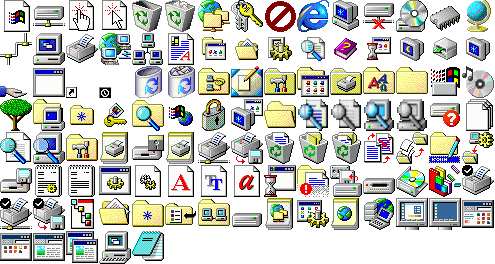
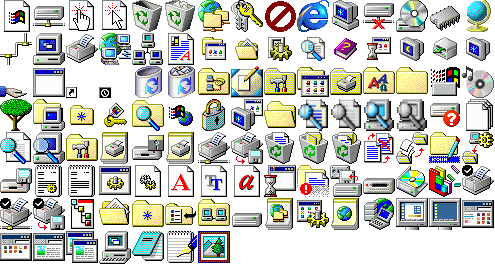
Add Imaging program

Changed region(s): [[0.3333, 0.8485, 0.4848, 1.0]]

diff --git a/style/style.css b/style/style.css
@@ -1,1 +1,1 @@
-.ie main{display:flex;flex-direction:column}.ie main .address-bar{display:flex;gap:4px;padding:4px}.ie main .address-bar input{flex:1}.ie main iframe{flex:1}.notepad textarea{height:100%;min-height:480px;min-width:640px;overflow:scroll;resize:none;width:100%}.explorer{height:400px;width:500px}.explorer main{align-content:flex-start;align-items:flex-start;background-color:#fff;display:flex;flex-wrap:wrap}.explorer main .shortcut:not(:focus)>p{color:#000}.word-pad main{background-color:#fff}@font-face{font-family:"win98";src:url("../assets/win98-font.ttf") format("truetype")}body{align-content:flex-start;background-color:teal;display:flex;flex-flow:column wrap;font-family:win98,sans-serif;height:100vh;padding-bottom:28px}.shortcut{border:1px dotted rgba(0, 0, 0, 0);margin:5px;min-height:64px;text-align:center;width:64px;z-index:0}.shortcut .icon{display:inline-block;margin:6px}.shortcut>p{color:#fff;overflow:hidden;text-align:center;text-overflow:ellipsis;white-space:nowrap}.shortcut.selected,.shortcut:focus{background-color:var(--win-selected-bg);border-color:#ff8080;left:0;position:relative;top:0;z-index:1}.shortcut.selected>p,.shortcut:focus>p{overflow:visible;white-space:normal}@font-face{font-family:"win98";src:url("../assets/win98-font.ttf") format("truetype")}.icon{background:url("../assets/icons.png") no-repeat 7.1428571429% 28.5714285714%;display:inline-block;max-height:32px;max-width:32px;min-height:32px;min-width:32px}.icon.medium{background-size:371.25px 198px;max-height:24px;max-width:24px;min-height:24px;min-width:24px}.icon.small{background-size:247.5px 132px;max-height:16px;max-width:16px;min-height:16px;min-width:16px}.icon.unknown{background-position:0% 0%}.icon.driver{background-position:7.1428571429% 0%}.icon.trash-bin{background-position:28.5714285714% 0%}.icon.trash-bin-full{background-position:35.7142857143% 0%}.icon.disabled{background-position:57.1428571429% 0%}.icon.ie{background-position:64.2857142857% 0%}.icon.hardver{background-position:92.8571428571% 0%}.icon.world{background-position:100% 0%}.icon.printer{background-position:14.2857142857% 14.2857142857%}.icon.rich-text{background-position:35.7142857143% 14.2857142857%}.icon.settings{background-position:57.1428571429% 14.2857142857%}.icon.help{background-position:64.2857142857% 14.2857142857%}.icon.run{background-position:71.4285714286% 14.2857142857%}.icon.monitor{background-position:100% 14.2857142857%}.icon.trash-bin-new{background-position:28.5714285714% 28.5714285714%}.icon.trash-bin-new-full{background-position:35.7142857143% 28.5714285714%}.icon.desktop{background-position:50% 28.5714285714%}.icon.programs{background-position:64.2857142857% 28.5714285714%}.icon.folder{background-position:85.7142857143% 28.5714285714%}.icon.tree{background-position:0% 42.8571428571%}.icon.log-off{background-position:21.4285714286% 42.8571428571%}.icon.search-folder{background-position:28.5714285714% 42.8571428571%}.icon.files{background-position:100% 42.8571428571%}.icon.search-file{background-position:0% 57.1428571429%}.icon.seacrh-computer{background-position:7.1428571429% 57.1428571429%}.icon.control-panel{background-position:14.2857142857% 57.1428571429%}.icon.file-script{background-position:7.1428571429% 71.4285714286%}.icon.file-text{background-position:14.2857142857% 71.4285714286%}.icon.documents{background-position:21.4285714286% 85.7142857143%}.icon.computer{background-position:21.4285714286% 100%}.icon.notepad{background-position:28.5714285714% 100%}@font-face{font-family:"win98";src:url("../assets/win98-font.ttf") format("truetype")}input[type=week],input[type=time],input[type=submit],input[type=reset],input[type=range],input[type=radio],input[type=month],input[type=file],input[type=datetime],input[type=date],input[type=color],input[type=checkbox],input[type=button]{cursor:url("../assets/cursors/default.svg"),default}:root{--win-default-bg: #c0c0c0;--win-default-bg-dark: #808080;--win-selected-bg: #000080;--win-selected-color: #fff}*{border:none;border-radius:0;box-sizing:border-box;margin:0;outline:none;padding:0;vertical-align:middle}*::-webkit-scrollbar{background-color:#ddd;height:16px;width:16px}*::-webkit-scrollbar-button{border-color:#fff var(--win-default-bg-dark) var(--win-default-bg-dark) #fff;border-style:solid;border-width:2px}*::-webkit-scrollbar-button:vertical:start{background:var(--win-default-bg) url("../assets/button-arrows.png")}*::-webkit-scrollbar-button:vertical:end{background:var(--win-default-bg) url("../assets/button-arrows.png") -12px}*::-webkit-scrollbar-button:horizontal:start{background:var(--win-default-bg) url("../assets/button-arrows.png") -36px}*::-webkit-scrollbar-button:horizontal:end{background:var(--win-default-bg) url("../assets/button-arrows.png") -24px}*::-webkit-scrollbar-button:active{border-color:var(--win-default-bg-dark) #fff #fff var(--win-default-bg-dark);border-style:solid;border-width:2px}*::-webkit-scrollbar-corner{background-color:var(--win-default-bg)}*::-webkit-scrollbar-thumb{border-color:#fff var(--win-default-bg-dark) var(--win-default-bg-dark) #fff;border-style:solid;border-width:2px;background-color:var(--win-default-bg)}html{cursor:url("../assets/cursors/default.svg"),default;font-size:12px}button{border-color:#fff var(--win-default-bg-dark) var(--win-default-bg-dark) #fff;border-style:solid;border-width:2px;background-color:var(--win-default-bg);font-size:1rem;overflow:hidden;padding:2px;position:relative;text-align:left;text-overflow:ellipsis;white-space:nowrap}button:active{border-color:var(--win-default-bg-dark) #fff #fff var(--win-default-bg-dark);border-style:solid;border-width:2px}button:focus:after{border:1px dotted #000;bottom:1px;content:" ";display:block;left:1px;position:absolute;right:1px;top:1px}input{cursor:url("../assets/cursors/text.svg"),text}input[type=image]{cursor:url("../assets/cursors/pointer.svg"),pointer}textarea{cursor:url("../assets/cursors/text.svg"),text}@font-face{font-family:"win98";src:url("../assets/win98-font.ttf") format("truetype")}#dateAndTime{border-color:var(--win-default-bg-dark) #fff #fff var(--win-default-bg-dark);border-style:solid;border-width:2px;border-width:1px;height:22px;padding:3px 6px 0 6px}#startButton{background:url("../assets/start.png") no-repeat 3px 3px var(--win-default-bg);height:22px;width:54px}#startMenu{border-color:#fff var(--win-default-bg-dark) var(--win-default-bg-dark) #fff;border-style:solid;border-width:2px;background:var(--win-selected-bg) url("../assets/startside.png") no-repeat 0 100%;border-top:2px solid #fff;bottom:calc(100% + 2px);display:none;flex-direction:column;justify-content:flex-end;left:2px;min-height:109px;padding-left:21px;position:absolute;z-index:1000}#startMenu.open{display:flex}#startMenu .menuitem{align-items:center;background-color:var(--win-default-bg);border:none;color:#000;display:flex;list-style:none;padding:4px 6px;position:relative;text-align:left;width:175px}#startMenu .menuitem:after{content:none}#startMenu .menuitem:hover{background-color:var(--win-selected-bg);color:var(--win-selected-color)}#startMenu .menuitem:hover>ul{display:block}#startMenu .menuitem>.icon{margin-right:2px}#startMenu .menuitem label{align-items:center;display:flex;flex:1;justify-content:space-between}#startMenu .menuitem label:nth-last-child(2):after{border-bottom:4px solid rgba(0, 0, 0, 0);border-left:4px solid;border-top:4px solid rgba(0, 0, 0, 0);content:" ";display:block;height:0;width:0}#startMenu .menuitem ul{border-color:#fff var(--win-default-bg-dark) var(--win-default-bg-dark) #fff;border-style:solid;border-width:2px;display:none;position:absolute;right:-177px;top:-2px}#startMenu .menuitem ul .icon{background-size:247.5px 132px;max-height:16px;max-width:16px;min-height:16px;min-width:16px}#startMenu .menu-separator{background:linear-gradient(var(--win-default-bg-dark) 1px, #fff 1px);border-width:4px 2px;border-color:var(--win-default-bg);border-style:solid;height:10px;list-style:none}#taskbar{background-color:var(--win-default-bg);border-top:2px solid #fff;bottom:0;display:flex;height:28px;justify-content:flex-start;left:0;padding:2px;position:fixed;right:0}#taskbar .separator{border-left:1px solid var(--win-default-bg-dark);border-right:1px solid #fff;margin:0 2px}#taskbarButtons{display:flex;gap:3px;flex:1}#taskbarButtons>button{padding:1px;width:160px}#taskbarButtons>button.active{border-color:var(--win-default-bg-dark) #fff #fff var(--win-default-bg-dark);border-style:solid;border-width:2px;background-color:#dedede}#taskbarButtons>button.active label{font-weight:bold}@font-face{font-family:"win98";src:url("../assets/win98-font.ttf") format("truetype")}dialog{border-color:#fff var(--win-default-bg-dark) var(--win-default-bg-dark) #fff;border-style:solid;border-width:2px;background-color:var(--win-default-bg);display:none;flex-direction:column;min-height:200px;min-width:200px;padding:2px;position:fixed}dialog.full{bottom:28px !important;height:auto !important;left:0 !important;right:0 !important;top:0 !important;width:auto !important}dialog.full header button.maximize{background-image:url(../assets/restore.svg)}dialog.active header{background-color:var(--win-selected-bg)}dialog[open]{display:flex}dialog header{align-items:center;background-color:var(--win-default-bg-dark);color:var(--win-selected-color);display:flex;margin-bottom:2px;max-height:20px;min-height:20px;overflow:hidden;padding:1px}dialog header label{flex:1;font-weight:bold;letter-spacing:.075em}dialog header button{height:14px;width:16px}dialog header button:focus:after{content:none}dialog header button.maximize{background-image:url(../assets/maximize.svg)}dialog header button.minimize{background-image:url(../assets/minimize.svg)}dialog header button.close{background-image:url(../assets/close.svg);margin-left:2px}dialog header .icon{background-size:247.5px 132px;max-height:16px;max-width:16px;min-height:16px;min-width:16px}dialog main{border-color:var(--win-default-bg-dark) #fff #fff var(--win-default-bg-dark);border-style:solid;border-width:2px;height:100%;margin-top:3px;min-height:190px;min-width:190px;overflow:auto}dialog menu{display:flex;gap:1px;list-style:none}dialog menu>li{border:1px solid rgba(0, 0, 0, 0);padding:2px 6px}dialog menu>li:hover{border-color:#fff var(--win-default-bg-dark) var(--win-default-bg-dark) #fff;border-style:solid;border-width:1px}dialog menu>li:active{border-color:var(--win-default-bg-dark) #fff #fff var(--win-default-bg-dark);border-style:solid;border-width:1px}#devNote{bottom:35px;color:rgba(0,0,0,.5);font-weight:bold;position:absolute;right:5px;text-align:right}dialog .resizer{position:absolute}dialog .resizer.bottom{bottom:0;cursor:n-resize;height:4px;left:0;width:100%}dialog .resizer.left{cursor:e-resize;height:100%;left:0;top:0;width:4px}dialog .resizer.right{cursor:e-resize;height:100%;right:0;top:0;width:4px}dialog .resizer.top{cursor:n-resize;height:4px;left:0;top:0;width:100%}/*# sourceMappingURL=style.css.map */
+.imaging main{text-align:center}.ie main{display:flex;flex-direction:column}.ie main .address-bar{display:flex;gap:4px;padding:4px}.ie main .address-bar input{flex:1}.ie main iframe{flex:1}.notepad textarea{height:100%;min-height:480px;min-width:640px;overflow:scroll;resize:none;width:100%}.explorer{height:400px;width:500px}.explorer main{align-content:flex-start;align-items:flex-start;background-color:#fff;display:flex;flex-wrap:wrap}.explorer main .shortcut:not(:focus)>p{color:#000}.word-pad main{background-color:#fff}@font-face{font-family:"win98";src:url("../assets/win98-font.ttf") format("truetype")}body{align-content:flex-start;background-color:teal;display:flex;flex-flow:column wrap;font-family:win98,sans-serif;height:100vh;padding-bottom:28px}.shortcut{border:1px dotted rgba(0, 0, 0, 0);margin:5px;min-height:64px;text-align:center;width:64px;z-index:0}.shortcut .icon{display:inline-block;margin:6px}.shortcut>p{color:#fff;overflow:hidden;text-align:center;text-overflow:ellipsis;white-space:nowrap}.shortcut.selected,.shortcut:focus{background-color:var(--win-selected-bg);border-color:#ff8080;left:0;position:relative;top:0;z-index:1}.shortcut.selected>p,.shortcut:focus>p{overflow:visible;white-space:normal}@font-face{font-family:"win98";src:url("../assets/win98-font.ttf") format("truetype")}.icon{background:url("../assets/icons.png") no-repeat 7.1428571429% 28.5714285714%;display:inline-block;max-height:32px;max-width:32px;min-height:32px;min-width:32px}.icon.medium{background-size:371.25px 198px;max-height:24px;max-width:24px;min-height:24px;min-width:24px}.icon.small{background-size:247.5px 132px;max-height:16px;max-width:16px;min-height:16px;min-width:16px}.icon.unknown{background-position:0% 0%}.icon.driver{background-position:7.1428571429% 0%}.icon.trash-bin{background-position:28.5714285714% 0%}.icon.trash-bin-full{background-position:35.7142857143% 0%}.icon.disabled{background-position:57.1428571429% 0%}.icon.ie{background-position:64.2857142857% 0%}.icon.hardver{background-position:92.8571428571% 0%}.icon.world{background-position:100% 0%}.icon.printer{background-position:14.2857142857% 14.2857142857%}.icon.rich-text{background-position:35.7142857143% 14.2857142857%}.icon.settings{background-position:57.1428571429% 14.2857142857%}.icon.help{background-position:64.2857142857% 14.2857142857%}.icon.run{background-position:71.4285714286% 14.2857142857%}.icon.monitor{background-position:100% 14.2857142857%}.icon.trash-bin-new{background-position:28.5714285714% 28.5714285714%}.icon.trash-bin-new-full{background-position:35.7142857143% 28.5714285714%}.icon.desktop{background-position:50% 28.5714285714%}.icon.programs{background-position:64.2857142857% 28.5714285714%}.icon.folder{background-position:85.7142857143% 28.5714285714%}.icon.tree{background-position:0% 42.8571428571%}.icon.log-off{background-position:21.4285714286% 42.8571428571%}.icon.search-folder{background-position:28.5714285714% 42.8571428571%}.icon.files{background-position:100% 42.8571428571%}.icon.search-file{background-position:0% 57.1428571429%}.icon.seacrh-computer{background-position:7.1428571429% 57.1428571429%}.icon.control-panel{background-position:14.2857142857% 57.1428571429%}.icon.file-script{background-position:7.1428571429% 71.4285714286%}.icon.file-text{background-position:14.2857142857% 71.4285714286%}.icon.documents{background-position:21.4285714286% 85.7142857143%}.icon.computer{background-position:21.4285714286% 100%}.icon.notepad{background-position:28.5714285714% 100%}.icon.word-pad{background-position:35.7142857143% 100%}.icon.imaging{background-position:42.8571428571% 100%}@font-face{font-family:"win98";src:url("../assets/win98-font.ttf") format("truetype")}input[type=week],input[type=time],input[type=submit],input[type=reset],input[type=range],input[type=radio],input[type=month],input[type=file],input[type=datetime],input[type=date],input[type=color],input[type=checkbox],input[type=button]{cursor:url("../assets/cursors/default.svg"),default}:root{--win-default-bg: #c0c0c0;--win-default-bg-dark: #808080;--win-selected-bg: #000080;--win-selected-color: #fff}*{border:none;border-radius:0;box-sizing:border-box;margin:0;outline:none;padding:0;vertical-align:middle}*::-webkit-scrollbar{background-color:#ddd;height:16px;width:16px}*::-webkit-scrollbar-button{border-color:#fff var(--win-default-bg-dark) var(--win-default-bg-dark) #fff;border-style:solid;border-width:2px}*::-webkit-scrollbar-button:vertical:start{background:var(--win-default-bg) url("../assets/button-arrows.png")}*::-webkit-scrollbar-button:vertical:end{background:var(--win-default-bg) url("../assets/button-arrows.png") -12px}*::-webkit-scrollbar-button:horizontal:start{background:var(--win-default-bg) url("../assets/button-arrows.png") -36px}*::-webkit-scrollbar-button:horizontal:end{background:var(--win-default-bg) url("../assets/button-arrows.png") -24px}*::-webkit-scrollbar-button:active{border-color:var(--win-default-bg-dark) #fff #fff var(--win-default-bg-dark);border-style:solid;border-width:2px}*::-webkit-scrollbar-corner{background-color:var(--win-default-bg)}*::-webkit-scrollbar-thumb{border-color:#fff var(--win-default-bg-dark) var(--win-default-bg-dark) #fff;border-style:solid;border-width:2px;background-color:var(--win-default-bg)}html{cursor:url("../assets/cursors/default.svg"),default;font-size:12px}button{border-color:#fff var(--win-default-bg-dark) var(--win-default-bg-dark) #fff;border-style:solid;border-width:2px;background-color:var(--win-default-bg);font-size:1rem;overflow:hidden;padding:2px;position:relative;text-align:left;text-overflow:ellipsis;white-space:nowrap}button:active{border-color:var(--win-default-bg-dark) #fff #fff var(--win-default-bg-dark);border-style:solid;border-width:2px}button:focus:after{border:1px dotted #000;bottom:1px;content:" ";display:block;left:1px;position:absolute;right:1px;top:1px}input{cursor:url("../assets/cursors/text.svg"),text}input[type=image]{cursor:url("../assets/cursors/pointer.svg"),pointer}textarea{cursor:url("../assets/cursors/text.svg"),text}@font-face{font-family:"win98";src:url("../assets/win98-font.ttf") format("truetype")}#dateAndTime{border-color:var(--win-default-bg-dark) #fff #fff var(--win-default-bg-dark);border-style:solid;border-width:2px;border-width:1px;height:22px;padding:3px 6px 0 6px}#startButton{background:url("../assets/start.png") no-repeat 3px 3px var(--win-default-bg);height:22px;width:54px}#startMenu{border-color:#fff var(--win-default-bg-dark) var(--win-default-bg-dark) #fff;border-style:solid;border-width:2px;background:var(--win-selected-bg) url("../assets/startside.png") no-repeat 0 100%;border-top:2px solid #fff;bottom:calc(100% + 2px);display:none;flex-direction:column;justify-content:flex-end;left:2px;min-height:109px;padding-left:21px;position:absolute;z-index:1000}#startMenu.open{display:flex}#startMenu .menuitem{align-items:center;background-color:var(--win-default-bg);border:none;color:#000;display:flex;list-style:none;padding:4px 6px;position:relative;text-align:left;width:175px}#startMenu .menuitem:after{content:none}#startMenu .menuitem:hover{background-color:var(--win-selected-bg);color:var(--win-selected-color)}#startMenu .menuitem:hover>ul{display:block}#startMenu .menuitem>.icon{margin-right:2px}#startMenu .menuitem label{align-items:center;display:flex;flex:1;justify-content:space-between}#startMenu .menuitem label:nth-last-child(2):after{border-bottom:4px solid rgba(0, 0, 0, 0);border-left:4px solid;border-top:4px solid rgba(0, 0, 0, 0);content:" ";display:block;height:0;width:0}#startMenu .menuitem ul{border-color:#fff var(--win-default-bg-dark) var(--win-default-bg-dark) #fff;border-style:solid;border-width:2px;display:none;position:absolute;right:-177px;top:-2px}#startMenu .menuitem ul .icon{background-size:247.5px 132px;max-height:16px;max-width:16px;min-height:16px;min-width:16px}#startMenu .menu-separator{background:linear-gradient(var(--win-default-bg-dark) 1px, #fff 1px);border-width:4px 2px;border-color:var(--win-default-bg);border-style:solid;height:10px;list-style:none}#taskbar{background-color:var(--win-default-bg);border-top:2px solid #fff;bottom:0;display:flex;height:28px;justify-content:flex-start;left:0;padding:2px;position:fixed;right:0}#taskbar .separator{border-left:1px solid var(--win-default-bg-dark);border-right:1px solid #fff;margin:0 2px}#taskbarButtons{display:flex;gap:3px;flex:1}#taskbarButtons>button{padding:1px;width:160px}#taskbarButtons>button.active{border-color:var(--win-default-bg-dark) #fff #fff var(--win-default-bg-dark);border-style:solid;border-width:2px;background-color:#dedede}#taskbarButtons>button.active label{font-weight:bold}@font-face{font-family:"win98";src:url("../assets/win98-font.ttf") format("truetype")}dialog{border-color:#fff var(--win-default-bg-dark) var(--win-default-bg-dark) #fff;border-style:solid;border-width:2px;background-color:var(--win-default-bg);display:none;flex-direction:column;min-height:200px;min-width:200px;padding:2px;position:fixed}dialog.full{bottom:28px !important;height:auto !important;left:0 !important;right:0 !important;top:0 !important;width:auto !important}dialog.full header button.maximize{background-image:url(../assets/restore.svg)}dialog.active header{background-color:var(--win-selected-bg)}dialog[open]{display:flex}dialog header{align-items:center;background-color:var(--win-default-bg-dark);color:var(--win-selected-color);display:flex;margin-bottom:2px;max-height:20px;min-height:20px;overflow:hidden;padding:1px}dialog header label{flex:1;font-weight:bold;letter-spacing:.075em}dialog header button{height:14px;width:16px}dialog header button:focus:after{content:none}dialog header button.maximize{background-image:url(../assets/maximize.svg)}dialog header button.minimize{background-image:url(../assets/minimize.svg)}dialog header button.close{background-image:url(../assets/close.svg);margin-left:2px}dialog header .icon{background-size:247.5px 132px;max-height:16px;max-width:16px;min-height:16px;min-width:16px}dialog main{border-color:var(--win-default-bg-dark) #fff #fff var(--win-default-bg-dark);border-style:solid;border-width:2px;height:100%;margin-top:3px;min-height:190px;min-width:190px;overflow:auto}dialog menu{display:flex;gap:1px;list-style:none}dialog menu>li{border:1px solid rgba(0, 0, 0, 0);padding:2px 6px}dialog menu>li:hover{border-color:#fff var(--win-default-bg-dark) var(--win-default-bg-dark) #fff;border-style:solid;border-width:1px}dialog menu>li:active{border-color:var(--win-default-bg-dark) #fff #fff var(--win-default-bg-dark);border-style:solid;border-width:1px}#devNote{bottom:35px;color:rgba(0,0,0,.5);font-weight:bold;position:absolute;right:5px;text-align:right}dialog .resizer{position:absolute}dialog .resizer.bottom{bottom:0;cursor:n-resize;height:4px;left:0;width:100%}dialog .resizer.left{cursor:e-resize;height:100%;left:0;top:0;width:4px}dialog .resizer.right{cursor:e-resize;height:100%;right:0;top:0;width:4px}dialog .resizer.top{cursor:n-resize;height:4px;left:0;top:0;width:100%}/*# sourceMappingURL=style.css.map */

diff --git a/style/win98-style.css b/style/win98-style.css
@@ -1,1 +1,1 @@
-@font-face{font-family:"win98";src:url("../assets/win98-font.ttf") format("truetype")}body{align-content:flex-start;background-color:teal;display:flex;flex-flow:column wrap;font-family:win98,sans-serif;height:100vh;padding-bottom:28px}.shortcut{border:1px dotted rgba(0,0,0,0);margin:5px;min-height:64px;text-align:center;width:64px;z-index:0}.shortcut .icon{display:inline-block;margin:6px}.shortcut>p{color:#fff;overflow:hidden;text-align:center;text-overflow:ellipsis;white-space:nowrap}.shortcut.selected,.shortcut:focus{background-color:var(--win-selected-bg);border-color:#ff8080;left:0;position:relative;top:0;z-index:1}.shortcut.selected>p,.shortcut:focus>p{overflow:visible;white-space:normal}@font-face{font-family:"win98";src:url("../assets/win98-font.ttf") format("truetype")}.icon{background:url("../assets/icons.png") no-repeat 7.1428571429% 28.5714285714%;display:inline-block;max-height:32px;max-width:32px;min-height:32px;min-width:32px}.icon.medium{background-size:371.25px 198px;max-height:24px;max-width:24px;min-height:24px;min-width:24px}.icon.small{background-size:247.5px 132px;max-height:16px;max-width:16px;min-height:16px;min-width:16px}.icon.unknown{background-position:0% 0%}.icon.driver{background-position:7.1428571429% 0%}.icon.trash-bin{background-position:28.5714285714% 0%}.icon.trash-bin-full{background-position:35.7142857143% 0%}.icon.disabled{background-position:57.1428571429% 0%}.icon.ie{background-position:64.2857142857% 0%}.icon.hardver{background-position:92.8571428571% 0%}.icon.world{background-position:100% 0%}.icon.printer{background-position:14.2857142857% 14.2857142857%}.icon.rich-text{background-position:35.7142857143% 14.2857142857%}.icon.settings{background-position:57.1428571429% 14.2857142857%}.icon.help{background-position:64.2857142857% 14.2857142857%}.icon.run{background-position:71.4285714286% 14.2857142857%}.icon.monitor{background-position:100% 14.2857142857%}.icon.trash-bin-new{background-position:28.5714285714% 28.5714285714%}.icon.trash-bin-new-full{background-position:35.7142857143% 28.5714285714%}.icon.desktop{background-position:50% 28.5714285714%}.icon.programs{background-position:64.2857142857% 28.5714285714%}.icon.folder{background-position:85.7142857143% 28.5714285714%}.icon.tree{background-position:0% 42.8571428571%}.icon.log-off{background-position:21.4285714286% 42.8571428571%}.icon.search-folder{background-position:28.5714285714% 42.8571428571%}.icon.files{background-position:100% 42.8571428571%}.icon.search-file{background-position:0% 57.1428571429%}.icon.seacrh-computer{background-position:7.1428571429% 57.1428571429%}.icon.control-panel{background-position:14.2857142857% 57.1428571429%}.icon.file-script{background-position:7.1428571429% 71.4285714286%}.icon.file-text{background-position:14.2857142857% 71.4285714286%}.icon.documents{background-position:21.4285714286% 85.7142857143%}.icon.computer{background-position:21.4285714286% 100%}.icon.notepad{background-position:28.5714285714% 100%}@font-face{font-family:"win98";src:url("../assets/win98-font.ttf") format("truetype")}input[type=week],input[type=time],input[type=submit],input[type=reset],input[type=range],input[type=radio],input[type=month],input[type=file],input[type=datetime],input[type=date],input[type=color],input[type=checkbox],input[type=button]{cursor:url("../assets/cursors/default.svg"),default}:root{--win-default-bg: #c0c0c0;--win-default-bg-dark: #808080;--win-selected-bg: #000080;--win-selected-color: #fff}*{border:none;border-radius:0;box-sizing:border-box;margin:0;outline:none;padding:0;vertical-align:middle}*::-webkit-scrollbar{background-color:#ddd;height:16px;width:16px}*::-webkit-scrollbar-button{border-color:#fff var(--win-default-bg-dark) var(--win-default-bg-dark) #fff;border-style:solid;border-width:2px}*::-webkit-scrollbar-button:vertical:start{background:var(--win-default-bg) url("../assets/button-arrows.png")}*::-webkit-scrollbar-button:vertical:end{background:var(--win-default-bg) url("../assets/button-arrows.png") -12px}*::-webkit-scrollbar-button:horizontal:start{background:var(--win-default-bg) url("../assets/button-arrows.png") -36px}*::-webkit-scrollbar-button:horizontal:end{background:var(--win-default-bg) url("../assets/button-arrows.png") -24px}*::-webkit-scrollbar-button:active{border-color:var(--win-default-bg-dark) #fff #fff var(--win-default-bg-dark);border-style:solid;border-width:2px}*::-webkit-scrollbar-corner{background-color:var(--win-default-bg)}*::-webkit-scrollbar-thumb{border-color:#fff var(--win-default-bg-dark) var(--win-default-bg-dark) #fff;border-style:solid;border-width:2px;background-color:var(--win-default-bg)}html{cursor:url("../assets/cursors/default.svg"),default;font-size:12px}button{border-color:#fff var(--win-default-bg-dark) var(--win-default-bg-dark) #fff;border-style:solid;border-width:2px;background-color:var(--win-default-bg);font-size:1rem;overflow:hidden;padding:2px;position:relative;text-align:left;text-overflow:ellipsis;white-space:nowrap}button:active{border-color:var(--win-default-bg-dark) #fff #fff var(--win-default-bg-dark);border-style:solid;border-width:2px}button:focus:after{border:1px dotted #000;bottom:1px;content:" ";display:block;left:1px;position:absolute;right:1px;top:1px}input{cursor:url("../assets/cursors/text.svg"),text}input[type=image]{cursor:url("../assets/cursors/pointer.svg"),pointer}textarea{cursor:url("../assets/cursors/text.svg"),text}@font-face{font-family:"win98";src:url("../assets/win98-font.ttf") format("truetype")}#dateAndTime{border-color:var(--win-default-bg-dark) #fff #fff var(--win-default-bg-dark);border-style:solid;border-width:2px;border-width:1px;height:22px;padding:3px 6px 0 6px}#startButton{background:url("../assets/start.png") no-repeat 3px 3px var(--win-default-bg);height:22px;width:54px}#startMenu{border-color:#fff var(--win-default-bg-dark) var(--win-default-bg-dark) #fff;border-style:solid;border-width:2px;background:var(--win-selected-bg) url("../assets/startside.png") no-repeat 0 100%;border-top:2px solid #fff;bottom:calc(100% + 2px);display:none;flex-direction:column;justify-content:flex-end;left:2px;min-height:109px;padding-left:21px;position:absolute;z-index:1000}#startMenu.open{display:flex}#startMenu .menuitem{align-items:center;background-color:var(--win-default-bg);border:none;color:#000;display:flex;list-style:none;padding:4px 6px;position:relative;text-align:left;width:175px}#startMenu .menuitem:after{content:none}#startMenu .menuitem:hover{background-color:var(--win-selected-bg);color:var(--win-selected-color)}#startMenu .menuitem:hover>ul{display:block}#startMenu .menuitem>.icon{margin-right:2px}#startMenu .menuitem label{align-items:center;display:flex;flex:1;justify-content:space-between}#startMenu .menuitem label:nth-last-child(2):after{border-bottom:4px solid rgba(0,0,0,0);border-left:4px solid;border-top:4px solid rgba(0,0,0,0);content:" ";display:block;height:0;width:0}#startMenu .menuitem ul{border-color:#fff var(--win-default-bg-dark) var(--win-default-bg-dark) #fff;border-style:solid;border-width:2px;display:none;position:absolute;right:-177px;top:-2px}#startMenu .menuitem ul .icon{background-size:247.5px 132px;max-height:16px;max-width:16px;min-height:16px;min-width:16px}#startMenu .menu-separator{background:linear-gradient(var(--win-default-bg-dark) 1px, #fff 1px);border-width:4px 2px;border-color:var(--win-default-bg);border-style:solid;height:10px;list-style:none}#taskbar{background-color:var(--win-default-bg);border-top:2px solid #fff;bottom:0;display:flex;height:28px;justify-content:flex-start;left:0;padding:2px;position:fixed;right:0}#taskbar .separator{border-left:1px solid var(--win-default-bg-dark);border-right:1px solid #fff;margin:0 2px}#taskbarButtons{display:flex;gap:3px;flex:1}#taskbarButtons>button{padding:1px;width:160px}#taskbarButtons>button.active{border-color:var(--win-default-bg-dark) #fff #fff var(--win-default-bg-dark);border-style:solid;border-width:2px;background-color:#dedede}#taskbarButtons>button.active label{font-weight:bold}@font-face{font-family:"win98";src:url("../assets/win98-font.ttf") format("truetype")}dialog{border-color:#fff var(--win-default-bg-dark) var(--win-default-bg-dark) #fff;border-style:solid;border-width:2px;background-color:var(--win-default-bg);display:none;flex-direction:column;min-height:200px;min-width:200px;padding:2px;position:fixed}dialog.full{bottom:28px !important;height:auto !important;left:0 !important;right:0 !important;top:0 !important;width:auto !important}dialog.full header button.maximize{background-image:url(../assets/restore.svg)}dialog.active header{background-color:var(--win-selected-bg)}dialog[open]{display:flex}dialog header{align-items:center;background-color:var(--win-default-bg-dark);color:var(--win-selected-color);display:flex;margin-bottom:2px;max-height:20px;min-height:20px;overflow:hidden;padding:1px}dialog header label{flex:1;font-weight:bold;letter-spacing:.075em}dialog header button{height:14px;width:16px}dialog header button:focus:after{content:none}dialog header button.maximize{background-image:url(../assets/maximize.svg)}dialog header button.minimize{background-image:url(../assets/minimize.svg)}dialog header button.close{background-image:url(../assets/close.svg);margin-left:2px}dialog header .icon{background-size:247.5px 132px;max-height:16px;max-width:16px;min-height:16px;min-width:16px}dialog main{border-color:var(--win-default-bg-dark) #fff #fff var(--win-default-bg-dark);border-style:solid;border-width:2px;height:100%;margin-top:3px;min-height:190px;min-width:190px;overflow:auto}dialog menu{display:flex;gap:1px;list-style:none}dialog menu>li{border:1px solid rgba(0,0,0,0);padding:2px 6px}dialog menu>li:hover{border-color:#fff var(--win-default-bg-dark) var(--win-default-bg-dark) #fff;border-style:solid;border-width:1px}dialog menu>li:active{border-color:var(--win-default-bg-dark) #fff #fff var(--win-default-bg-dark);border-style:solid;border-width:1px}/*# sourceMappingURL=win98-style.css.map */
+@font-face{font-family:"win98";src:url("../assets/win98-font.ttf") format("truetype")}body{align-content:flex-start;background-color:teal;display:flex;flex-flow:column wrap;font-family:win98,sans-serif;height:100vh;padding-bottom:28px}.shortcut{border:1px dotted rgba(0,0,0,0);margin:5px;min-height:64px;text-align:center;width:64px;z-index:0}.shortcut .icon{display:inline-block;margin:6px}.shortcut>p{color:#fff;overflow:hidden;text-align:center;text-overflow:ellipsis;white-space:nowrap}.shortcut.selected,.shortcut:focus{background-color:var(--win-selected-bg);border-color:#ff8080;left:0;position:relative;top:0;z-index:1}.shortcut.selected>p,.shortcut:focus>p{overflow:visible;white-space:normal}@font-face{font-family:"win98";src:url("../assets/win98-font.ttf") format("truetype")}.icon{background:url("../assets/icons.png") no-repeat 7.1428571429% 28.5714285714%;display:inline-block;max-height:32px;max-width:32px;min-height:32px;min-width:32px}.icon.medium{background-size:371.25px 198px;max-height:24px;max-width:24px;min-height:24px;min-width:24px}.icon.small{background-size:247.5px 132px;max-height:16px;max-width:16px;min-height:16px;min-width:16px}.icon.unknown{background-position:0% 0%}.icon.driver{background-position:7.1428571429% 0%}.icon.trash-bin{background-position:28.5714285714% 0%}.icon.trash-bin-full{background-position:35.7142857143% 0%}.icon.disabled{background-position:57.1428571429% 0%}.icon.ie{background-position:64.2857142857% 0%}.icon.hardver{background-position:92.8571428571% 0%}.icon.world{background-position:100% 0%}.icon.printer{background-position:14.2857142857% 14.2857142857%}.icon.rich-text{background-position:35.7142857143% 14.2857142857%}.icon.settings{background-position:57.1428571429% 14.2857142857%}.icon.help{background-position:64.2857142857% 14.2857142857%}.icon.run{background-position:71.4285714286% 14.2857142857%}.icon.monitor{background-position:100% 14.2857142857%}.icon.trash-bin-new{background-position:28.5714285714% 28.5714285714%}.icon.trash-bin-new-full{background-position:35.7142857143% 28.5714285714%}.icon.desktop{background-position:50% 28.5714285714%}.icon.programs{background-position:64.2857142857% 28.5714285714%}.icon.folder{background-position:85.7142857143% 28.5714285714%}.icon.tree{background-position:0% 42.8571428571%}.icon.log-off{background-position:21.4285714286% 42.8571428571%}.icon.search-folder{background-position:28.5714285714% 42.8571428571%}.icon.files{background-position:100% 42.8571428571%}.icon.search-file{background-position:0% 57.1428571429%}.icon.seacrh-computer{background-position:7.1428571429% 57.1428571429%}.icon.control-panel{background-position:14.2857142857% 57.1428571429%}.icon.file-script{background-position:7.1428571429% 71.4285714286%}.icon.file-text{background-position:14.2857142857% 71.4285714286%}.icon.documents{background-position:21.4285714286% 85.7142857143%}.icon.computer{background-position:21.4285714286% 100%}.icon.notepad{background-position:28.5714285714% 100%}.icon.word-pad{background-position:35.7142857143% 100%}.icon.imaging{background-position:42.8571428571% 100%}@font-face{font-family:"win98";src:url("../assets/win98-font.ttf") format("truetype")}input[type=week],input[type=time],input[type=submit],input[type=reset],input[type=range],input[type=radio],input[type=month],input[type=file],input[type=datetime],input[type=date],input[type=color],input[type=checkbox],input[type=button]{cursor:url("../assets/cursors/default.svg"),default}:root{--win-default-bg: #c0c0c0;--win-default-bg-dark: #808080;--win-selected-bg: #000080;--win-selected-color: #fff}*{border:none;border-radius:0;box-sizing:border-box;margin:0;outline:none;padding:0;vertical-align:middle}*::-webkit-scrollbar{background-color:#ddd;height:16px;width:16px}*::-webkit-scrollbar-button{border-color:#fff var(--win-default-bg-dark) var(--win-default-bg-dark) #fff;border-style:solid;border-width:2px}*::-webkit-scrollbar-button:vertical:start{background:var(--win-default-bg) url("../assets/button-arrows.png")}*::-webkit-scrollbar-button:vertical:end{background:var(--win-default-bg) url("../assets/button-arrows.png") -12px}*::-webkit-scrollbar-button:horizontal:start{background:var(--win-default-bg) url("../assets/button-arrows.png") -36px}*::-webkit-scrollbar-button:horizontal:end{background:var(--win-default-bg) url("../assets/button-arrows.png") -24px}*::-webkit-scrollbar-button:active{border-color:var(--win-default-bg-dark) #fff #fff var(--win-default-bg-dark);border-style:solid;border-width:2px}*::-webkit-scrollbar-corner{background-color:var(--win-default-bg)}*::-webkit-scrollbar-thumb{border-color:#fff var(--win-default-bg-dark) var(--win-default-bg-dark) #fff;border-style:solid;border-width:2px;background-color:var(--win-default-bg)}html{cursor:url("../assets/cursors/default.svg"),default;font-size:12px}button{border-color:#fff var(--win-default-bg-dark) var(--win-default-bg-dark) #fff;border-style:solid;border-width:2px;background-color:var(--win-default-bg);font-size:1rem;overflow:hidden;padding:2px;position:relative;text-align:left;text-overflow:ellipsis;white-space:nowrap}button:active{border-color:var(--win-default-bg-dark) #fff #fff var(--win-default-bg-dark);border-style:solid;border-width:2px}button:focus:after{border:1px dotted #000;bottom:1px;content:" ";display:block;left:1px;position:absolute;right:1px;top:1px}input{cursor:url("../assets/cursors/text.svg"),text}input[type=image]{cursor:url("../assets/cursors/pointer.svg"),pointer}textarea{cursor:url("../assets/cursors/text.svg"),text}@font-face{font-family:"win98";src:url("../assets/win98-font.ttf") format("truetype")}#dateAndTime{border-color:var(--win-default-bg-dark) #fff #fff var(--win-default-bg-dark);border-style:solid;border-width:2px;border-width:1px;height:22px;padding:3px 6px 0 6px}#startButton{background:url("../assets/start.png") no-repeat 3px 3px var(--win-default-bg);height:22px;width:54px}#startMenu{border-color:#fff var(--win-default-bg-dark) var(--win-default-bg-dark) #fff;border-style:solid;border-width:2px;background:var(--win-selected-bg) url("../assets/startside.png") no-repeat 0 100%;border-top:2px solid #fff;bottom:calc(100% + 2px);display:none;flex-direction:column;justify-content:flex-end;left:2px;min-height:109px;padding-left:21px;position:absolute;z-index:1000}#startMenu.open{display:flex}#startMenu .menuitem{align-items:center;background-color:var(--win-default-bg);border:none;color:#000;display:flex;list-style:none;padding:4px 6px;position:relative;text-align:left;width:175px}#startMenu .menuitem:after{content:none}#startMenu .menuitem:hover{background-color:var(--win-selected-bg);color:var(--win-selected-color)}#startMenu .menuitem:hover>ul{display:block}#startMenu .menuitem>.icon{margin-right:2px}#startMenu .menuitem label{align-items:center;display:flex;flex:1;justify-content:space-between}#startMenu .menuitem label:nth-last-child(2):after{border-bottom:4px solid rgba(0,0,0,0);border-left:4px solid;border-top:4px solid rgba(0,0,0,0);content:" ";display:block;height:0;width:0}#startMenu .menuitem ul{border-color:#fff var(--win-default-bg-dark) var(--win-default-bg-dark) #fff;border-style:solid;border-width:2px;display:none;position:absolute;right:-177px;top:-2px}#startMenu .menuitem ul .icon{background-size:247.5px 132px;max-height:16px;max-width:16px;min-height:16px;min-width:16px}#startMenu .menu-separator{background:linear-gradient(var(--win-default-bg-dark) 1px, #fff 1px);border-width:4px 2px;border-color:var(--win-default-bg);border-style:solid;height:10px;list-style:none}#taskbar{background-color:var(--win-default-bg);border-top:2px solid #fff;bottom:0;display:flex;height:28px;justify-content:flex-start;left:0;padding:2px;position:fixed;right:0}#taskbar .separator{border-left:1px solid var(--win-default-bg-dark);border-right:1px solid #fff;margin:0 2px}#taskbarButtons{display:flex;gap:3px;flex:1}#taskbarButtons>button{padding:1px;width:160px}#taskbarButtons>button.active{border-color:var(--win-default-bg-dark) #fff #fff var(--win-default-bg-dark);border-style:solid;border-width:2px;background-color:#dedede}#taskbarButtons>button.active label{font-weight:bold}@font-face{font-family:"win98";src:url("../assets/win98-font.ttf") format("truetype")}dialog{border-color:#fff var(--win-default-bg-dark) var(--win-default-bg-dark) #fff;border-style:solid;border-width:2px;background-color:var(--win-default-bg);display:none;flex-direction:column;min-height:200px;min-width:200px;padding:2px;position:fixed}dialog.full{bottom:28px !important;height:auto !important;left:0 !important;right:0 !important;top:0 !important;width:auto !important}dialog.full header button.maximize{background-image:url(../assets/restore.svg)}dialog.active header{background-color:var(--win-selected-bg)}dialog[open]{display:flex}dialog header{align-items:center;background-color:var(--win-default-bg-dark);color:var(--win-selected-color);display:flex;margin-bottom:2px;max-height:20px;min-height:20px;overflow:hidden;padding:1px}dialog header label{flex:1;font-weight:bold;letter-spacing:.075em}dialog header button{height:14px;width:16px}dialog header button:focus:after{content:none}dialog header button.maximize{background-image:url(../assets/maximize.svg)}dialog header button.minimize{background-image:url(../assets/minimize.svg)}dialog header button.close{background-image:url(../assets/close.svg);margin-left:2px}dialog header .icon{background-size:247.5px 132px;max-height:16px;max-width:16px;min-height:16px;min-width:16px}dialog main{border-color:var(--win-default-bg-dark) #fff #fff var(--win-default-bg-dark);border-style:solid;border-width:2px;height:100%;margin-top:3px;min-height:190px;min-width:190px;overflow:auto}dialog menu{display:flex;gap:1px;list-style:none}dialog menu>li{border:1px solid rgba(0,0,0,0);padding:2px 6px}dialog menu>li:hover{border-color:#fff var(--win-default-bg-dark) var(--win-default-bg-dark) #fff;border-style:solid;border-width:1px}dialog menu>li:active{border-color:var(--win-default-bg-dark) #fff #fff var(--win-default-bg-dark);border-style:solid;border-width:1px}/*# sourceMappingURL=win98-style.css.map */

diff --git a/src/programs/imaging/imaging.js b/src/programs/imaging/imaging.js
@@ -1,0 +1,20 @@
+import Window from '../../os/Window.js';
+
+export const config = {
+    icon: 'imaging',
+    id: 'imaging',
+    menu: [],
+    name: 'Imaging'
+};
+
+export default class extends Window {
+    constructor(data) {
+        super(config);
+
+        const img = document.createElement('img');
+        img.src = `/assets/images/${data.src}`;
+        this.main.append(img);
+
+        this.maximize();
+    }
+};

diff --git a/src/os/booting.js b/src/os/booting.js
@@ -8,6 +8,7 @@ document.body.querySelector('#booting').remove();
 function initPrograms() {
     return [
         import('../programs/windows-explorer/windows-explorer.js'),
+        import('../programs/imaging/imaging.js'),
         import('../programs/internet-explorer/internet-explorer.js'),
         import('../programs/notepad/notepad.js'),
         import('../programs/word-pad/word-pad.js')

diff --git a/src/os/folders.js b/src/os/folders.js
@@ -33,6 +33,15 @@ const folders = folder(
                 },
                 name: 'My Diary'
             }
+        ),
+        file(
+            'imaging',
+            {
+                data: {
+                    src: 'cv.jpg'
+                },
+                name: 'cv.jpg'
+            }
         )
     )
 );

diff --git a/style.scss b/style.scss
@@ -1,3 +1,4 @@
+@import 'src/programs/imaging/imaging';
 @import 'src/programs/internet-explorer/internet-explorer';
 @import 'src/programs/notepad/notepad';
 @import 'src/programs/windows-explorer/windows-explorer';

diff --git a/src/programs/word-pad/word-pad.js b/src/programs/word-pad/word-pad.js
@@ -4,7 +4,7 @@ import Window from '../../os/Window.js';
 const name = 'WordPad';
 
 export const config = {
-    icon: 'rich-text',
+    icon: 'word-pad',
     id: 'word-pad',
     menu: [
         {

diff --git a/src/programs/imaging/imaging.scss b/src/programs/imaging/imaging.scss
@@ -1,0 +1,3 @@
+.imaging main {
+    text-align: center;
+}
